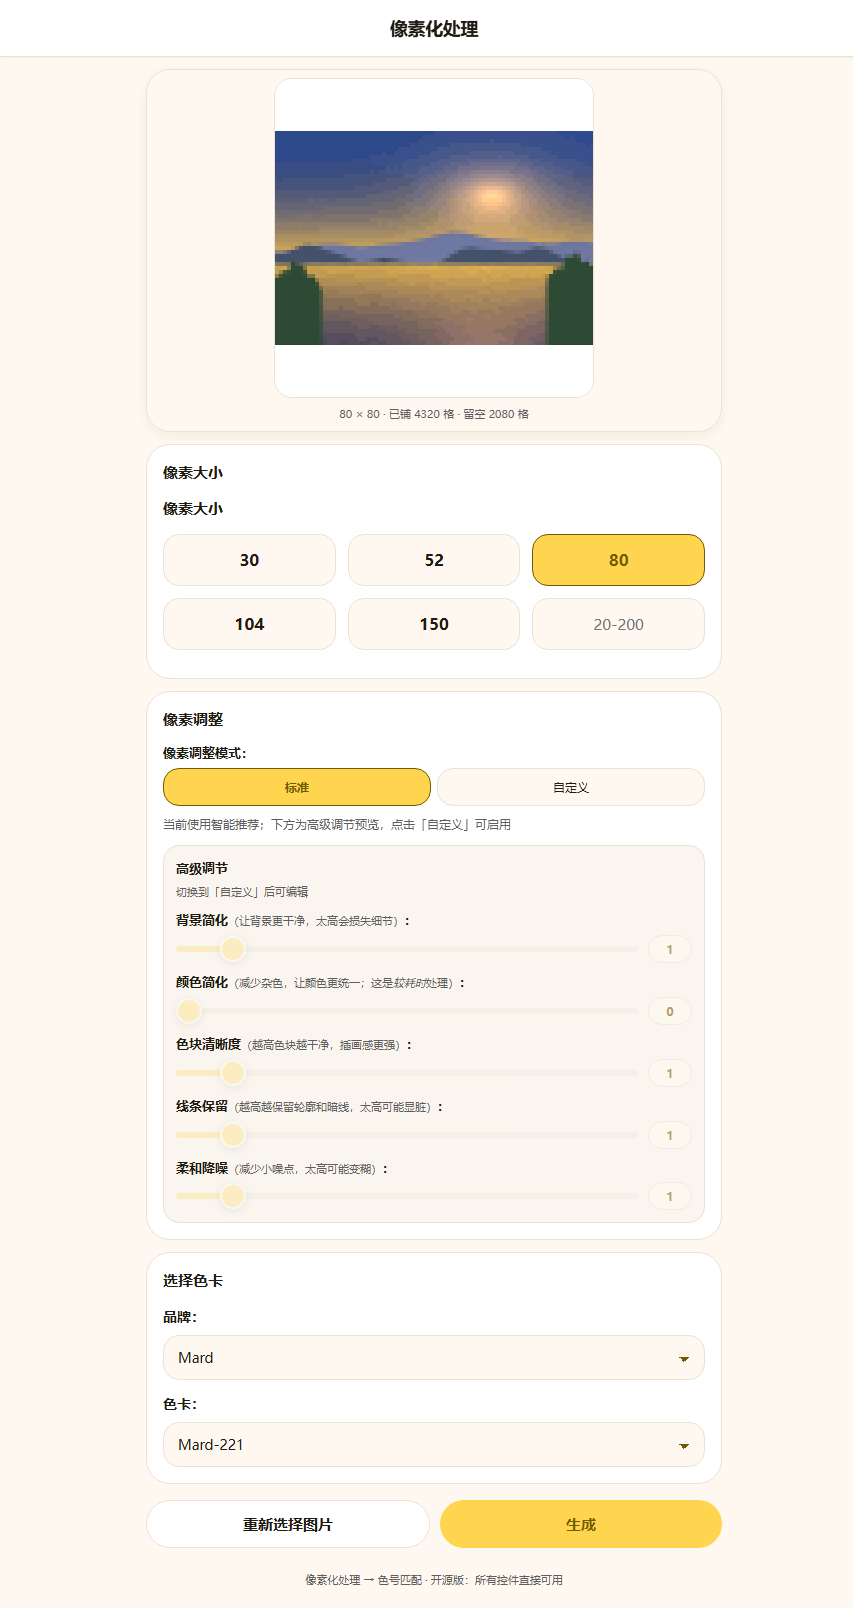
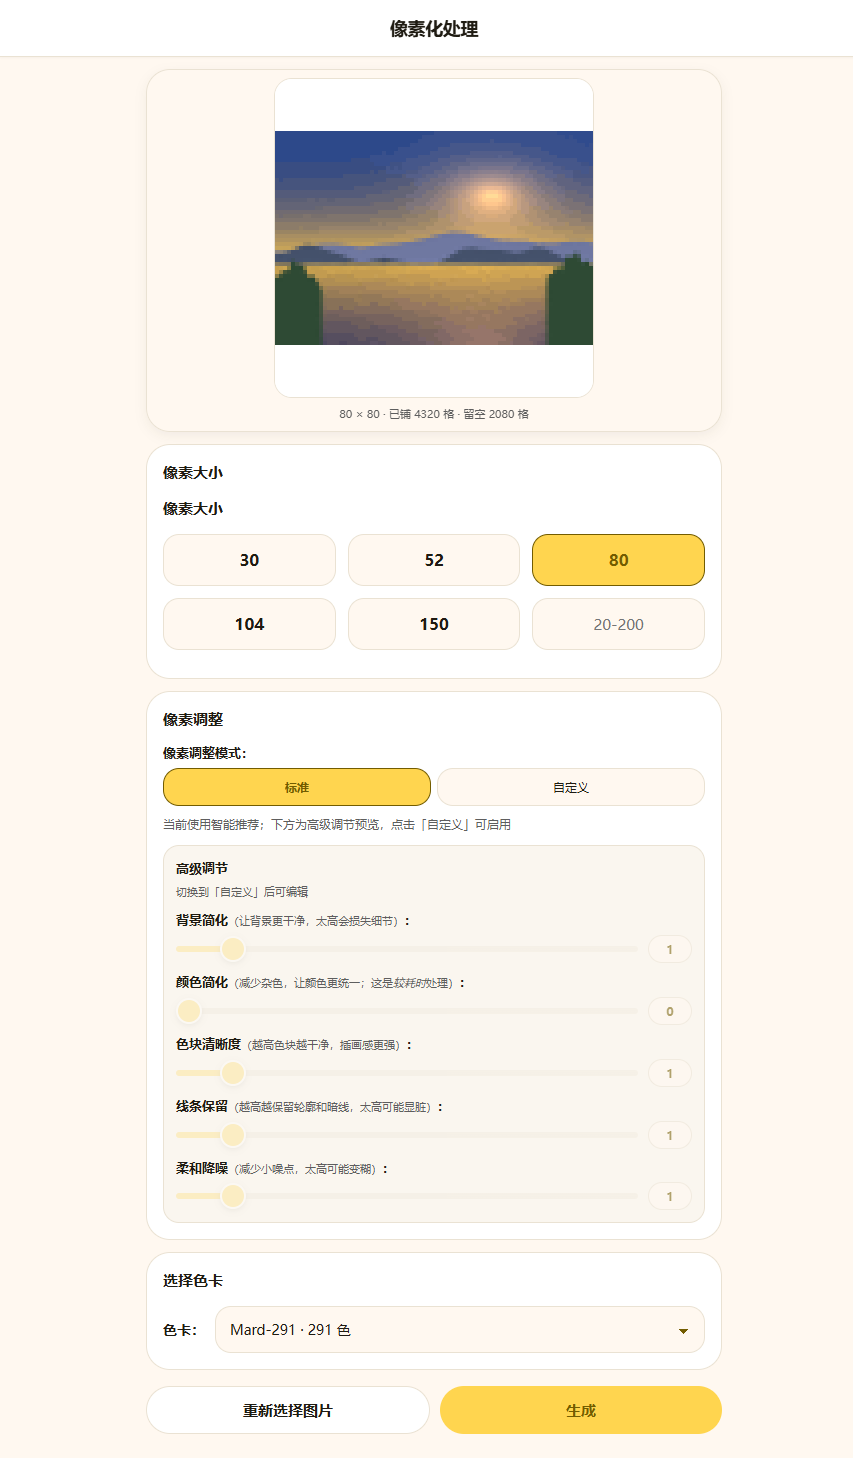
feat(ui): 色卡只开放 Mard 291，去掉底部说明文案
- 色卡范围收到 palette-source.mjs 决定：外部数据里能找到 mard-291 时只提供它这一张，
  其他品牌与 4 档内置合成色卡都不再进入可选列表，默认选中它（291 色全部载入）。
  没有外部数据的 clone 仍退回四档合成色卡，并把默认那张（152 色）排到最前，保证开箱能跑。
- PalettePicker：只剩一个品牌时不再显示品牌下拉；只剩一张色卡时直接写成一行
  「色卡：Mard-291 · 291 色」——不再摆只有单项的下拉。
- 去掉页面底部的「像素化处理 → 色号匹配 · 开源版：所有控件直接可用」及其 .pw-footer 样式。
- 顺手清掉 chain.mjs 里抖动功能的三处残留：autoConfig.dithering 常量、它在最终缓存 key
  里的占位、以及快速缓存判断里恒真的 dithering === 'none'。清掉前后 11 个场景的
  结构/匹配指纹、色数、平均 ΔE00、孤立豆逐项完全一致。
- 测试：索引夹具加入 Artkal / Mard 221 作为干扰项，新增「只留 Mard 291」断言；
  降级用例补上「默认是 synthetic:152」。node --test 25/25 通过。
- 截图重拍（色卡从两个下拉变成一行文字）；?autotest=1 与 ?testdrive=1 均 ok，
  交互自检现在记录 palette=external:mard-291、paletteColors=291。

diff --git a/src/components/PalettePicker.vue b/src/components/PalettePicker.vue
@@ -1,31 +1,40 @@
 <template>
   <div class="palette-selector pw-card">
     <span class="pw-section-title">选择色卡</span>
-    <div class="selector-row">
-      <label class="pw-label" :for="brandSelectId">品牌：</label>
-      <select :id="brandSelectId" class="picker-display" :value="selectedBrand" @change="onBrand">
-        <option value="">请选择品牌</option>
-        <option v-for="brand in brands" :key="brand" :value="brand">{{ brand }}</option>
-      </select>
+
+    <!-- 只有一张色卡可选时直接把它写出来，不摆单选下拉（单选项的下拉是纯噪音） -->
+    <div v-if="singlePalette" class="selector-row single-row">
+      <span class="pw-label">色卡：</span>
+      <span class="picker-display single-value">{{ singleText }}</span>
     </div>
 
-    <div class="selector-row">
-      <label class="pw-label" :for="paletteSelectId">色卡：</label>
-      <select
-        :id="paletteSelectId"
-        class="picker-display"
-        :class="{ disabled: !selectedBrand }"
-        :value="selectedPaletteId"
-        :disabled="!selectedBrand || !palettes.length"
-        @change="onPalette"
-      >
-        <option v-if="!selectedBrand" value="">请先选择品牌</option>
-        <option v-else-if="!palettes.length" value="">该品牌暂无色卡</option>
-        <option v-for="item in palettes" :key="item.id" :value="item.id">
-          {{ item.display || item.paletteCode }}
-        </option>
-      </select>
-    </div>
+    <template v-else>
+      <div v-if="showBrandRow" class="selector-row">
+        <label class="pw-label" :for="brandSelectId">品牌：</label>
+        <select :id="brandSelectId" class="picker-display" :value="selectedBrand" @change="onBrand">
+          <option value="">请选择品牌</option>
+          <option v-for="brand in brands" :key="brand" :value="brand">{{ brand }}</option>
+        </select>
+      </div>
+
+      <div class="selector-row">
+        <label class="pw-label" :for="paletteSelectId">色卡：</label>
+        <select
+          :id="paletteSelectId"
+          class="picker-display"
+          :class="{ disabled: needBrand }"
+          :value="selectedPaletteId"
+          :disabled="needBrand || !palettes.length"
+          @change="onPalette"
+        >
+          <option v-if="needBrand" value="">请先选择品牌</option>
+          <option v-else-if="!palettes.length" value="">暂无色卡</option>
+          <option v-for="item in palettes" :key="item.id" :value="item.id">
+            {{ item.display || item.paletteCode }}
+          </option>
+        </select>
+      </div>
+    </template>
   </div>
 </template>
 
@@ -45,6 +54,27 @@ const emit = defineEmits(['select-brand', 'select-palette']);
 const brandSelectId = computed(() => `${props.idPrefix}-brand`);
 const paletteSelectId = computed(() => `${props.idPrefix}-palette`);
 
+/** 只有一个品牌时不再显示品牌下拉：没得选 */
+const showBrandRow = computed(() => props.brands.length > 1);
+
+/** 品牌下拉还在时，必须先选品牌才能选色卡 */
+const needBrand = computed(() => showBrandRow.value && !props.selectedBrand);
+
+/**
+ * 整个页面只有一张色卡时（本仓库默认就是这种情况）直接显示成一行文字。
+ * `brands.length <= 1` 保证不是因为「还没选品牌」才只剩一张。
+ */
+const singlePalette = computed(() =>
+  !showBrandRow.value && props.palettes.length === 1 ? props.palettes[0] : null,
+);
+
+const singleText = computed(() => {
+  const item = singlePalette.value;
+  if (!item) return '';
+  const name = item.display || item.paletteCode || item.label;
+  return item.colorCount ? `${name} · ${item.colorCount} 色` : name;
+});
+
 function onBrand(event) {
   emit('select-brand', event.target.value);
 }
@@ -53,3 +83,23 @@ function onPalette(event) {
   emit('select-palette', event.target.value);
 }
 </script>
+
+<style scoped>
+/* 一行文字版：全局的 .pw-label 是块级的，这里让它和取值同排 */
+.single-row {
+  display: flex;
+  align-items: center;
+  gap: 10px;
+}
+
+.single-row .pw-label {
+  margin-bottom: 0;
+  white-space: nowrap;
+}
+
+.single-value {
+  display: block;
+  flex: 1;
+  min-width: 0;
+}
+</style>

diff --git a/test/palette-source.test.js b/test/palette-source.test.js
@@ -13,7 +13,9 @@ import { listPalettes, loadPalette, listSyntheticPalettes } from '../src/algorit
 
 const INDEX = {
   palettes: [
+    { id: 'artkal-c-197', label: 'Artkal C 197', brand: 'Artkal', paletteCode: 'Artkal-C-197', colorCount: 2, kind: 'external' },
     { id: 'mard-221', label: 'Mard 221', brand: 'Mard', paletteCode: 'Mard-221', colorCount: 2, kind: 'external' },
+    { id: 'mard-291', label: 'Mard 291', brand: 'Mard', paletteCode: 'Mard-291', colorCount: 3, kind: 'external' },
   ],
 };
 const MARD = {
@@ -66,16 +68,18 @@ test('内置合成色卡四档，id 都带 synthetic: 前缀', () => {
   assert.deepEqual(list.map((p) => p.id), ['synthetic:17', 'synthetic:40', 'synthetic:152', 'synthetic:300']);
 });
 
-test('列出全部色卡：外部在前、合成在后，id 前缀正确', async () => {
+test('外部数据里只有 Mard 291 会进入可选列表，其他品牌一律剔除', async () => {
   const fake = stubFetch({ '/palettes/index.json': INDEX });
   try {
     const { external, synthetic, all } = await listPalettes();
-    assert.equal(external.length, 1);
-    assert.equal(external[0].id, 'external:mard-221');
+    // 索引里有三个系列（Artkal / Mard 221 / Mard 291），只留 Mard 291
+    assert.deepEqual(external.map((p) => p.id), ['external:mard-291']);
     assert.equal(external[0].brand, 'Mard');
-    assert.equal(synthetic.length, 4);
-    assert.equal(all.length, 5);
-    assert.equal(all[0].id, 'external:mard-221');
+    assert.equal(external[0].paletteCode, 'Mard-291');
+    assert.equal(external[0].colorCount, 3);
+    // 有品牌色卡时不再列内置合成色卡：界面上不会出现第二个选项
+    assert.deepEqual(synthetic, []);
+    assert.deepEqual(all.map((p) => p.id), ['external:mard-291']);
   } finally {
     fake.restore();
   }
@@ -84,9 +88,15 @@ test('列出全部色卡：外部在前、合成在后，id 前缀正确', async
 test('没有外部色卡数据时降级成只有合成色卡，不抛异常', async () => {
   const fake = stubFetch({});
   try {
-    const { external, synthetic } = await listPalettes();
+    const { external, synthetic, all } = await listPalettes();
     assert.deepEqual(external, []);
     assert.equal(synthetic.length, 4);
+    // 默认选中第一张：152 色那张（示例效果最好）
+    assert.equal(all[0].id, 'synthetic:152');
+    assert.deepEqual(
+      all.map((p) => p.id).sort(),
+      ['synthetic:152', 'synthetic:17', 'synthetic:300', 'synthetic:40'],
+    );
   } finally {
     fake.restore();
   }

diff --git a/src/App.vue b/src/App.vue
@@ -32,8 +32,6 @@
       </div>
     </main>
 
-    <footer class="pw-footer">像素化处理 → 色号匹配 · 开源版：所有控件直接可用</footer>
-
     <LoadingOverlay :visible="loading" :text="store.loadingText" />
 
     <pre v-if="store.autotestMode" id="autotest" class="autotest-out">{{

diff --git a/src/styles/studio.css b/src/styles/studio.css
@@ -74,13 +74,6 @@
   display: block;
 }
 
-.pw-footer {
-  padding: 0 12px 20px;
-  text-align: center;
-  font-size: 11px;
-  color: var(--pw-muted);
-}
-
 /* ==================== 卡片 / 标题 ==================== */
 
 .pw-card {

diff --git a/README.md b/README.md
@@ -11,7 +11,7 @@
 | --- | --- |
 | ![像素化处理](docs/step1-structure.png) | ![色号匹配](docs/step2-match.png) |
 
-（截图用内置示例场景 + Mard 221 色卡、80 格；方板之外的非等比区域留白，不拉伸。）
+（截图用内置示例场景 + Mard 291 色卡、80 格；方板之外的非等比区域留白，不拉伸。）
 
 ## 快速开始
 
@@ -67,7 +67,11 @@ npm run preview    # 预览构建结果
 ## 色卡数据
 
 **本仓库不含任何品牌色卡数据**，只带 4 档内置合成色卡（17 / 40 / 152 / 300 色），
-所以 clone 下来就能直接跑。想用真实品牌色卡（Mard 221、Artkal、CoCo 等）见
+所以 clone 下来就能直接跑（此时默认选中色最全的 152 色那张）。
+
+这个页面只开放 **Mard 291** 一张品牌色卡：外部数据里能找到它就只提供它，
+其他品牌和内置合成色卡都不会再进入选择列表（只剩一个选项时界面写成一行文字，
+不会摆一个只有单项的下拉）。想换或想加品牌色卡见
 [`public/palettes/README.md`](public/palettes/README.md)：把符合
 [pindou-color-data](https://github.com/HansBug/pindou-color-data) 约定的目录放好，
 用 `PINDOU_COLOR_DATA_ROOT` 指过去即可，开发服务器会把它挂到 `/palettes/*` 下。
